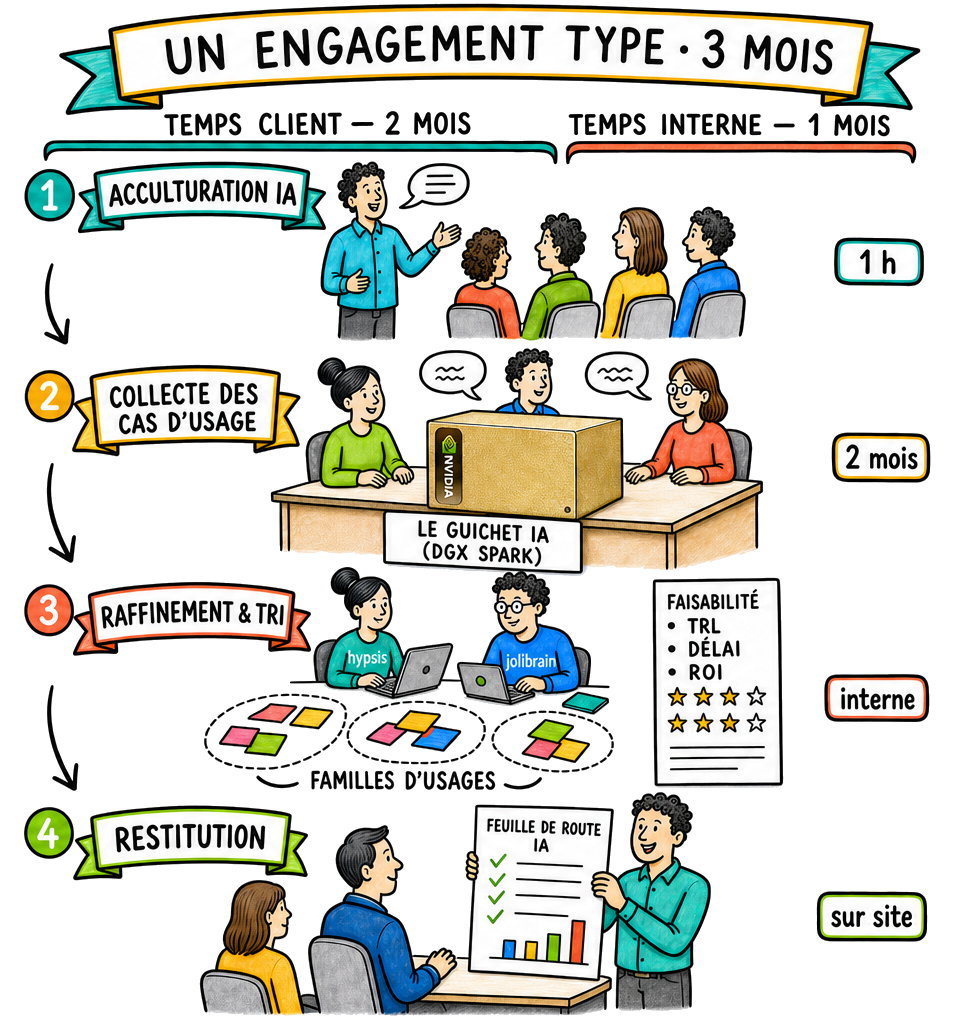
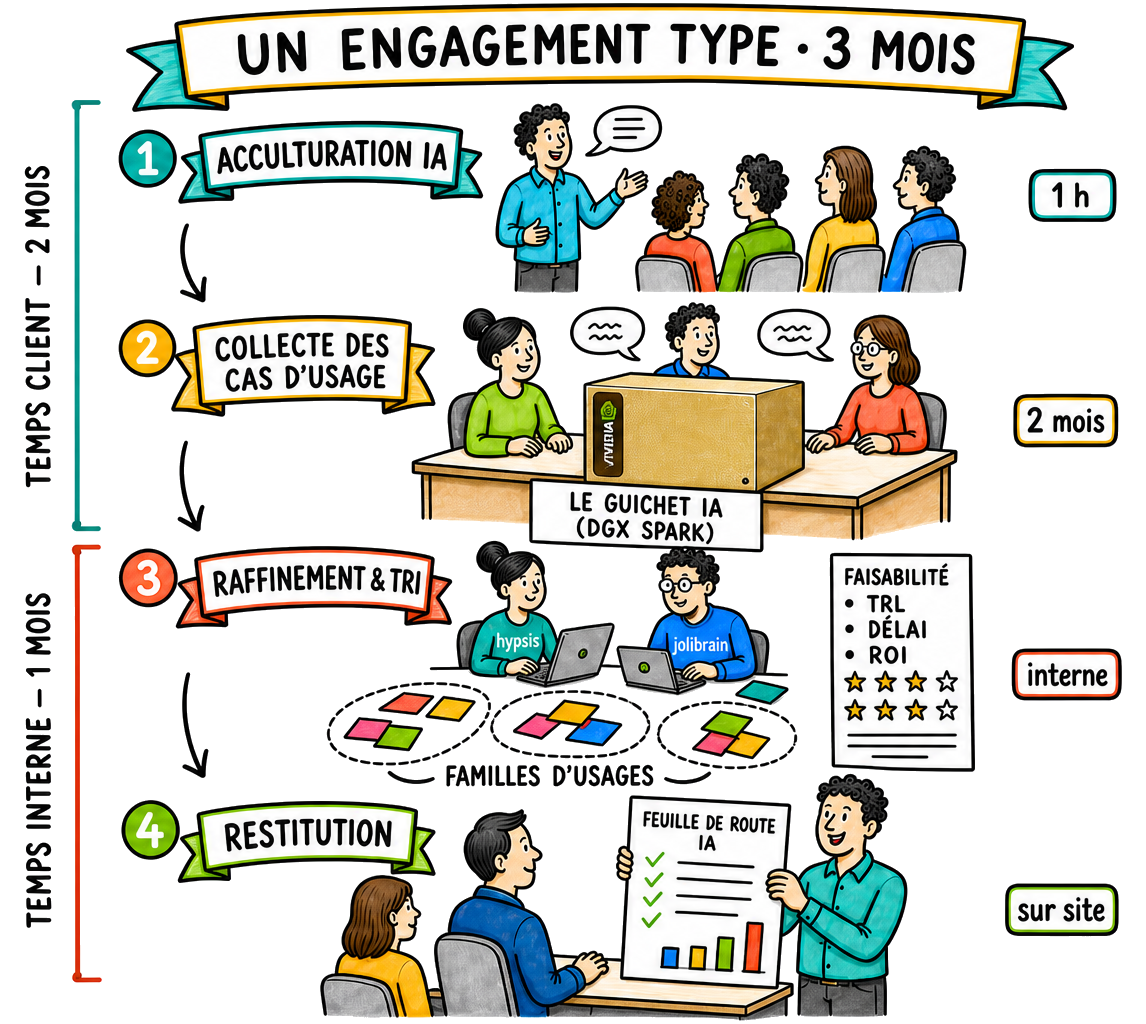
Deploy 2026-06-22 19:04 UTC

diff --git a/elicit-fr/index.html b/elicit-fr/index.html
@@ -317,7 +317,7 @@
     <section class="slide">
       <div class="inner wide">
         <picture>
-          <source media="(max-width: 640px)" srcset="../assets/engagement-sketchnote-vertical.png?v=1">
+          <source media="(max-width: 640px)" srcset="../assets/engagement-sketchnote-vertical.png?v=2">
           <img class="sketch" src="../assets/engagement-sketchnote.png?v=4" alt="Sketchnote d'un engagement type en 3 mois : temps client (acculturation IA puis collecte des cas d'usage via le guichet IA sur la Hypsis Box DGX Spark) et temps interne (raffinement et tri en familles d'usages notées faisabilité, TRL, délai, ROI ; restitution de la feuille de route).">
         </picture>
       </div>
